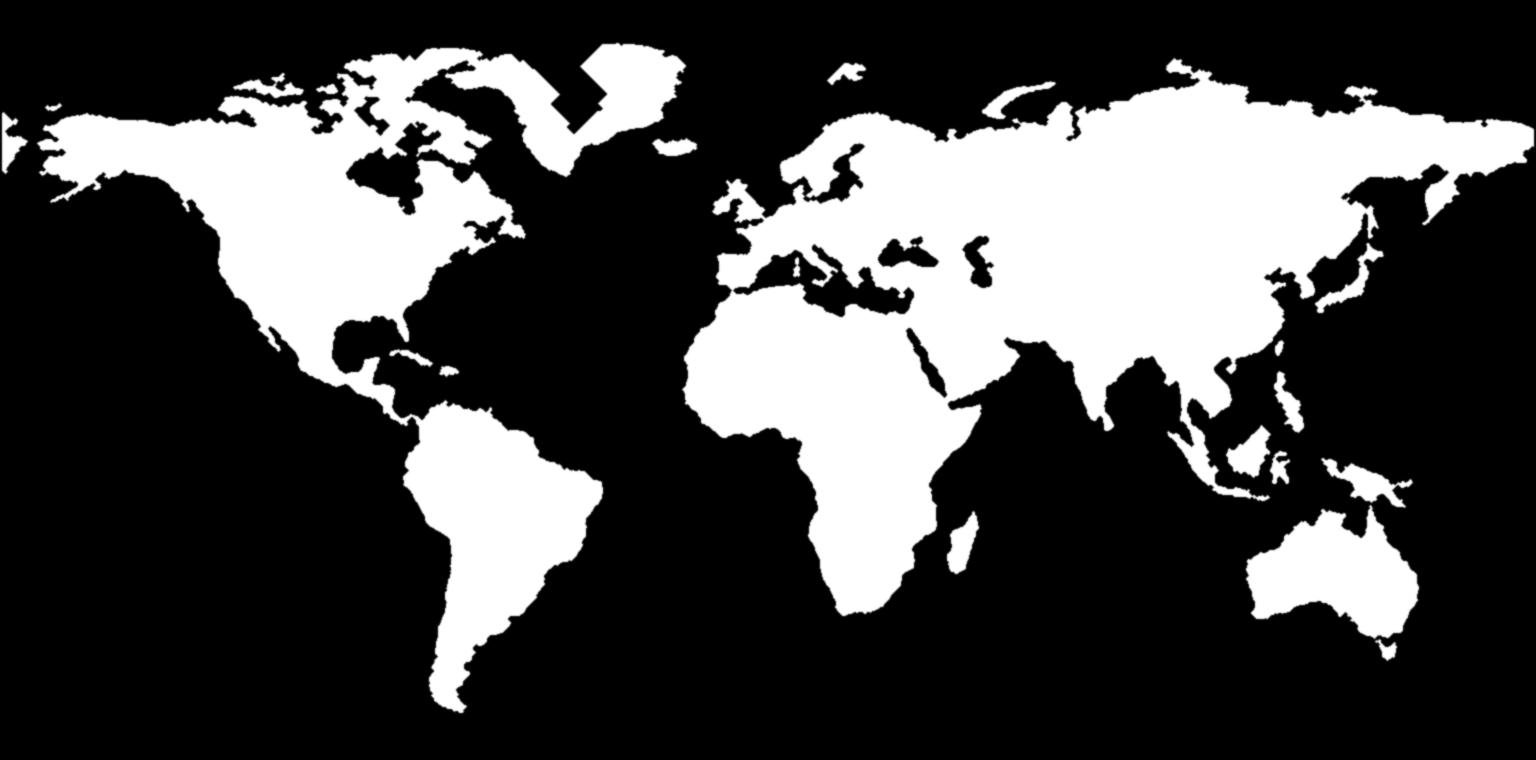
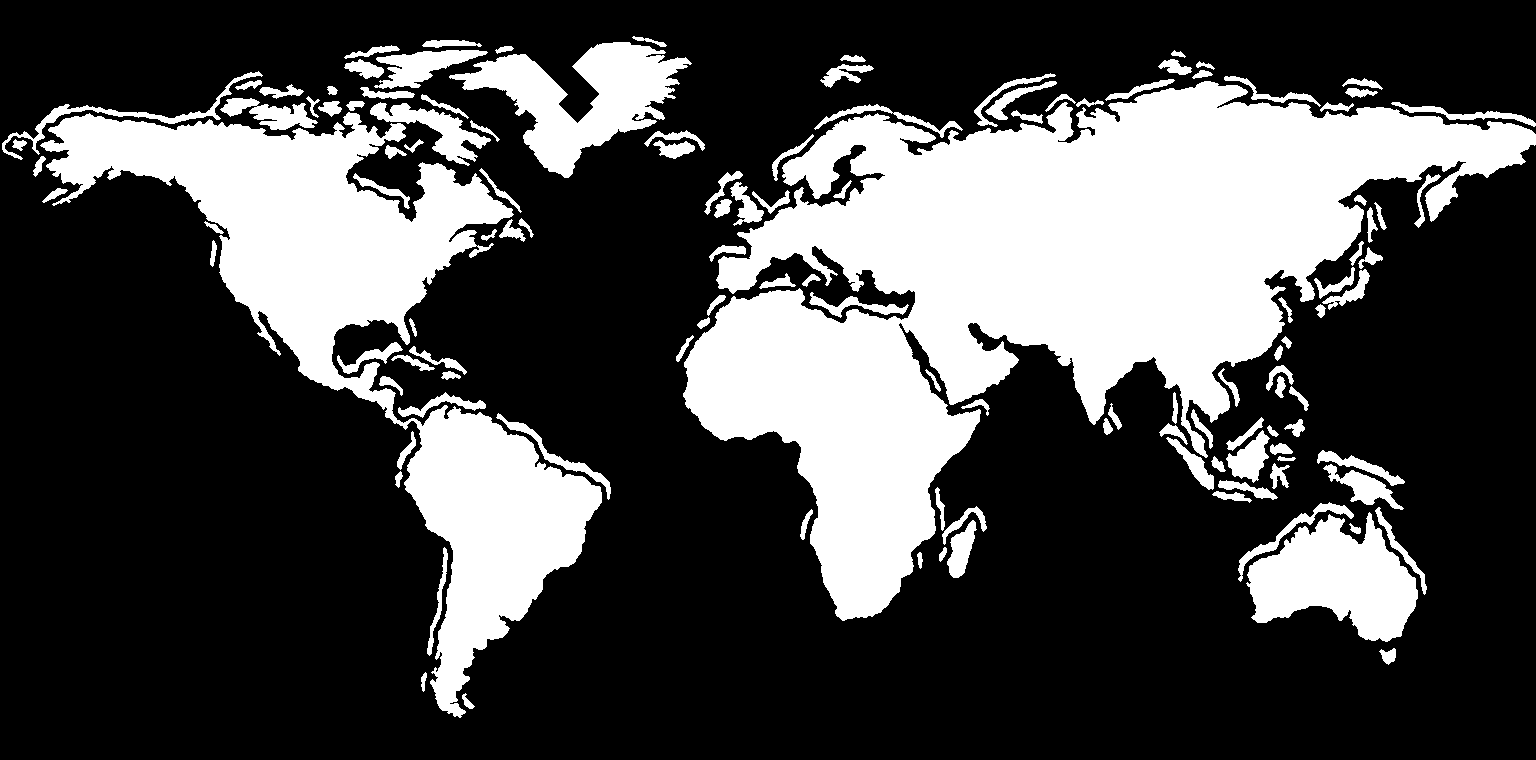
feat(client): mapa arcade e zonas realinhadas às divisões clássicas

diff --git a/packages/client/src/layout.ts b/packages/client/src/layout.ts
@@ -12,33 +12,33 @@ export interface Layout {
 
 /** Territory zones on `world-board.jpg` (1536×760). Same crop as `land-mask.png`. */
 const ZONES: Record<TerritoryId, { cx: number; cy: number; poly: number[] }> = {
-  argentina: { cx: 460, cy: 630, poly: [430, 600, 470, 610, 500, 590, 540, 600, 520, 660, 480, 720, 430, 720, 420, 660] },
+  argentina: { cx: 460, cy: 630, poly: [430, 600, 470, 610, 500, 590, 540, 600, 520, 660, 480, 720, 430, 720, 414, 695, 414, 665] },
   bolivia: { cx: 449, cy: 510, poly: [400, 450, 420, 480, 470, 490, 480, 550, 500, 590, 470, 610, 430, 600, 410, 540] },
-  brasil: { cx: 524, cy: 529, poly: [470, 490, 540, 480, 560, 440, 620, 500, 600, 540, 540, 600, 500, 590, 480, 550] },
-  venezuela: { cx: 470, cy: 450, poly: [400, 440, 430, 440, 450, 410, 520, 415, 560, 440, 540, 480, 470, 490, 420, 480, 400, 450] },
-  mexico: { cx: 384, cy: 394, poly: [250, 390, 300, 390, 340, 380, 440, 360, 470, 380, 450, 410, 430, 440, 400, 440, 330, 430, 250, 415] },
+  brasil: { cx: 524, cy: 529, poly: [470, 490, 540, 480, 560, 435, 615, 462, 628, 500, 600, 540, 540, 600, 500, 590, 480, 550] },
+  venezuela: { cx: 470, cy: 450, poly: [395, 435, 430, 440, 450, 410, 520, 415, 560, 440, 540, 480, 470, 490, 420, 480, 392, 492, 392, 452] },
+  mexico: { cx: 384, cy: 394, poly: [250, 390, 300, 390, 340, 380, 440, 360, 498, 352, 498, 415, 432, 445, 400, 440, 330, 430, 250, 415] },
   california: { cx: 243, cy: 280, poly: [130, 260, 200, 280, 250, 260, 300, 360, 300, 390, 250, 390, 200, 340, 150, 300] },
   nova_york: { cx: 310, cy: 305, poly: [250, 260, 370, 280, 400, 250, 440, 260, 500, 260, 480, 310, 440, 360, 340, 380, 300, 390, 300, 360] },
   ottawa: { cx: 312, cy: 217, poly: [240, 165, 380, 165, 400, 250, 370, 280, 250, 260] },
   vancouver: { cx: 217, cy: 189, poly: [110, 210, 140, 156, 240, 165, 250, 260, 200, 280, 140, 260] },
   alaska: { cx: 93, cy: 144, poly: [0, 80, 150, 90, 160, 160, 140, 210, 110, 210, 0, 200] },
   mackenzie: { cx: 282, cy: 139, poly: [150, 20, 400, 20, 400, 80, 380, 172, 150, 166] },
-  labrador: { cx: 435, cy: 230, poly: [400, 20, 470, 20, 470, 160, 520, 180, 530, 240, 440, 260, 400, 250, 380, 170, 400, 80] },
+  labrador: { cx: 435, cy: 230, poly: [400, 20, 470, 20, 470, 160, 555, 175, 560, 250, 440, 262, 400, 250, 380, 170, 400, 80] },
   groenlandia: { cx: 638, cy: 80, poly: [470, 20, 770, 20, 720, 80, 680, 110, 650, 140, 600, 195, 520, 190, 470, 160] },
-  islandia: { cx: 673, cy: 148, poly: [650, 120, 720, 120, 720, 165, 650, 165] },
-  inglaterra: { cx: 749, cy: 209, poly: [700, 170, 770, 165, 770, 230, 700, 230] },
+  islandia: { cx: 648, cy: 144, poly: [640, 115, 725, 115, 725, 168, 640, 168] },
+  inglaterra: { cx: 745, cy: 205, poly: [695, 160, 805, 158, 805, 235, 695, 235] },
   suecia: { cx: 878, cy: 164, poly: [770, 20, 900, 20, 900, 190, 860, 210, 800, 200, 770, 160] },
-  franca: { cx: 735, cy: 271, poly: [690, 230, 770, 230, 800, 220, 830, 260, 830, 290, 770, 305, 690, 310] },
+  franca: { cx: 735, cy: 271, poly: [690, 230, 770, 230, 800, 220, 830, 260, 830, 290, 770, 305, 702, 368, 668, 368, 688, 310] },
   alemanha: { cx: 853, cy: 237, poly: [800, 200, 860, 210, 880, 220, 890, 280, 870, 305, 830, 290, 830, 260, 800, 220] },
   polonia: { cx: 904, cy: 215, poly: [860, 210, 900, 190, 960, 200, 970, 260, 1000, 280, 940, 310, 890, 280, 880, 220] },
   moscou: { cx: 1008, cy: 181, poly: [900, 20, 1040, 20, 1060, 180, 1050, 260, 1000, 280, 970, 260, 960, 200, 900, 190] },
-  argelia: { cx: 787, cy: 366, poly: [690, 310, 770, 305, 830, 290, 870, 305, 850, 320, 850, 390, 850, 430, 800, 440, 700, 440, 680, 360] },
+  argelia: { cx: 787, cy: 366, poly: [690, 310, 770, 305, 830, 290, 870, 305, 850, 320, 850, 390, 850, 430, 800, 440, 700, 440, 672, 415, 672, 388, 680, 360] },
   egito: { cx: 882, cy: 360, poly: [850, 320, 870, 305, 890, 280, 940, 310, 960, 360, 940, 400, 850, 390] },
   sudan: { cx: 910, cy: 438, poly: [850, 390, 940, 400, 960, 360, 1010, 410, 990, 440, 940, 480, 930, 550, 880, 540, 900, 490, 850, 430] },
   congo: { cx: 855, cy: 496, poly: [700, 440, 800, 440, 850, 430, 900, 490, 880, 540, 800, 550, 760, 490] },
   africa_do_sul: { cx: 862, cy: 577, poly: [800, 550, 880, 540, 930, 550, 930, 620, 870, 650, 820, 610] },
-  madagascar: { cx: 962, cy: 538, poly: [935, 490, 990, 490, 990, 585, 935, 585] },
-  oriente_medio: { cx: 1036, cy: 305, poly: [940, 310, 1000, 280, 1050, 260, 1080, 300, 1100, 360, 1080, 400, 1010, 410, 960, 360] },
+  madagascar: { cx: 962, cy: 538, poly: [930, 488, 992, 488, 992, 588, 930, 588] },
+  oriente_medio: { cx: 1036, cy: 305, poly: [940, 310, 1000, 280, 1050, 260, 1080, 300, 1100, 360, 1080, 400, 1098, 425, 1010, 410, 960, 360] },
   aral: { cx: 1107, cy: 239, poly: [1050, 260, 1060, 180, 1150, 190, 1230, 210, 1230, 260, 1150, 270, 1130, 340, 1090, 340, 1080, 300] },
   omsk: { cx: 1114, cy: 148, poly: [1040, 20, 1150, 20, 1150, 190, 1060, 180] },
   dudinka: { cx: 1320, cy: 147, poly: [1260, 20, 1400, 20, 1400, 150, 1320, 180, 1270, 160] },
@@ -47,13 +47,13 @@ const ZONES: Record<TerritoryId, { cx: number; cy: number; poly: number[] }> = {
   mongolia: { cx: 1254, cy: 239, poly: [1230, 210, 1330, 230, 1380, 200, 1400, 220, 1380, 260, 1300, 270, 1230, 260] },
   vladivostok: { cx: 1460, cy: 148, poly: [1400, 20, 1536, 20, 1536, 200, 1450, 240, 1400, 220, 1380, 200, 1400, 150] },
   china: { cx: 1200, cy: 314, poly: [1130, 340, 1150, 270, 1230, 260, 1300, 270, 1330, 300, 1290, 360, 1250, 380, 1180, 360] },
-  japao: { cx: 1337, cy: 245, poly: [1330, 240, 1400, 220, 1400, 300, 1330, 300] },
+  japao: { cx: 1356, cy: 252, poly: [1290, 325, 1330, 295, 1362, 272, 1392, 222, 1422, 178, 1445, 190, 1422, 232, 1402, 282, 1362, 322, 1292, 332] },
   india: { cx: 1115, cy: 356, poly: [1090, 340, 1130, 340, 1180, 360, 1160, 430, 1130, 480, 1100, 430, 1080, 400, 1100, 360] },
   vietna: { cx: 1203, cy: 384, poly: [1180, 360, 1250, 380, 1290, 360, 1300, 400, 1260, 440, 1210, 460, 1160, 430] },
-  sumatra: { cx: 1215, cy: 478, poly: [1160, 430, 1210, 460, 1260, 440, 1250, 520, 1150, 520] },
+  sumatra: { cx: 1215, cy: 478, poly: [1160, 430, 1210, 460, 1262, 440, 1252, 592, 1150, 520] },
   borneo: { cx: 1298, cy: 472, poly: [1250, 360, 1340, 360, 1340, 500, 1250, 500, 1250, 440, 1260, 440] },
-  nova_gine: { cx: 1368, cy: 485, poly: [1340, 430, 1450, 430, 1450, 520, 1340, 520] },
-  australia: { cx: 1365, cy: 577, poly: [1250, 520, 1440, 520, 1450, 660, 1250, 660] },
+  nova_gine: { cx: 1368, cy: 485, poly: [1290, 430, 1450, 430, 1450, 525, 1285, 525] },
+  australia: { cx: 1365, cy: 577, poly: [1250, 520, 1462, 520, 1472, 668, 1398, 674, 1250, 662] },
 };
 
 export const LAYOUT: Layout[] = TERRITORIES.map((t) => ({ id: t.id, ...ZONES[t.id] }));

diff --git a/packages/client/src/board.ts b/packages/client/src/board.ts
@@ -52,6 +52,22 @@ export async function createBoard(host: HTMLElement, hooks: BoardHooks) {
   const mapTex = await Assets.load<Texture>("/assets/world-board.jpg");
   const maskTex = await Assets.load<Texture>("/assets/land-mask.png");
 
+  const maskImg = new Image();
+  maskImg.src = "/assets/land-mask.png";
+  await maskImg.decode();
+  const maskCanvas = document.createElement("canvas");
+  maskCanvas.width = WORLD.width;
+  maskCanvas.height = WORLD.height;
+  const maskCtx = maskCanvas.getContext("2d")!;
+  maskCtx.drawImage(maskImg, 0, 0);
+  const maskData = maskCtx.getImageData(0, 0, WORLD.width, WORLD.height).data;
+  const onLand = (x: number, y: number) => {
+    const ix = Math.round(x);
+    const iy = Math.round(y);
+    if (ix < 0 || iy < 0 || ix >= WORLD.width || iy >= WORLD.height) return false;
+    return (maskData[(iy * WORLD.width + ix) * 4] ?? 0) > 127;
+  };
+
   const world = new Container();
   app.stage.addChild(world);
 
@@ -102,7 +118,10 @@ export async function createBoard(host: HTMLElement, hooks: BoardHooks) {
     const cell = new Container();
     cell.eventMode = "static";
     cell.cursor = "pointer";
-    cell.hitArea = new Polygon(l.poly);
+    const hitPoly = new Polygon(l.poly);
+    cell.hitArea = {
+      contains: (x: number, y: number) => hitPoly.contains(x, y) && onLand(x, y),
+    };
     cell.on("pointertap", () => {
       if (panned) return;
       hooks.onTerritory(l.id);

diff --git a/packages/client/public/assets/README.md b/packages/client/public/assets/README.md
@@ -1,7 +1,7 @@
 Arte original, sem referência a produtos Grow/Hasbro.
 
-- `world-board.jpg` — tabuleiro pintado 1536×760 (óleo/gouache), arte original gerada por IA a partir do relevo do repo
-- `land-mask.png` — máscara terra/mar do mesmo recorte, usada pelo Pixi para recortar as zonas dos territórios à costa.
+- `world-board.jpg` — tabuleiro estilo arcade 1536×760 (continentes em cores planas vibrantes sobre oceano navy), arte original gerada por IA
+- `land-mask.png` — máscara terra/mar do mesmo recorte, usada pelo Pixi para recortar as zonas dos territórios à costa e pelo hit-test (cliques no oceano não selecionam territórios).
 - `card-circle.png` — emblema circular de carta em latão, arte original gerada por IA
 - `card-triangle.png` — emblema triangular de carta em latão, arte original gerada por IA
 - `card-square.png` — emblema quadrado de carta em latão, arte original gerada por IA
